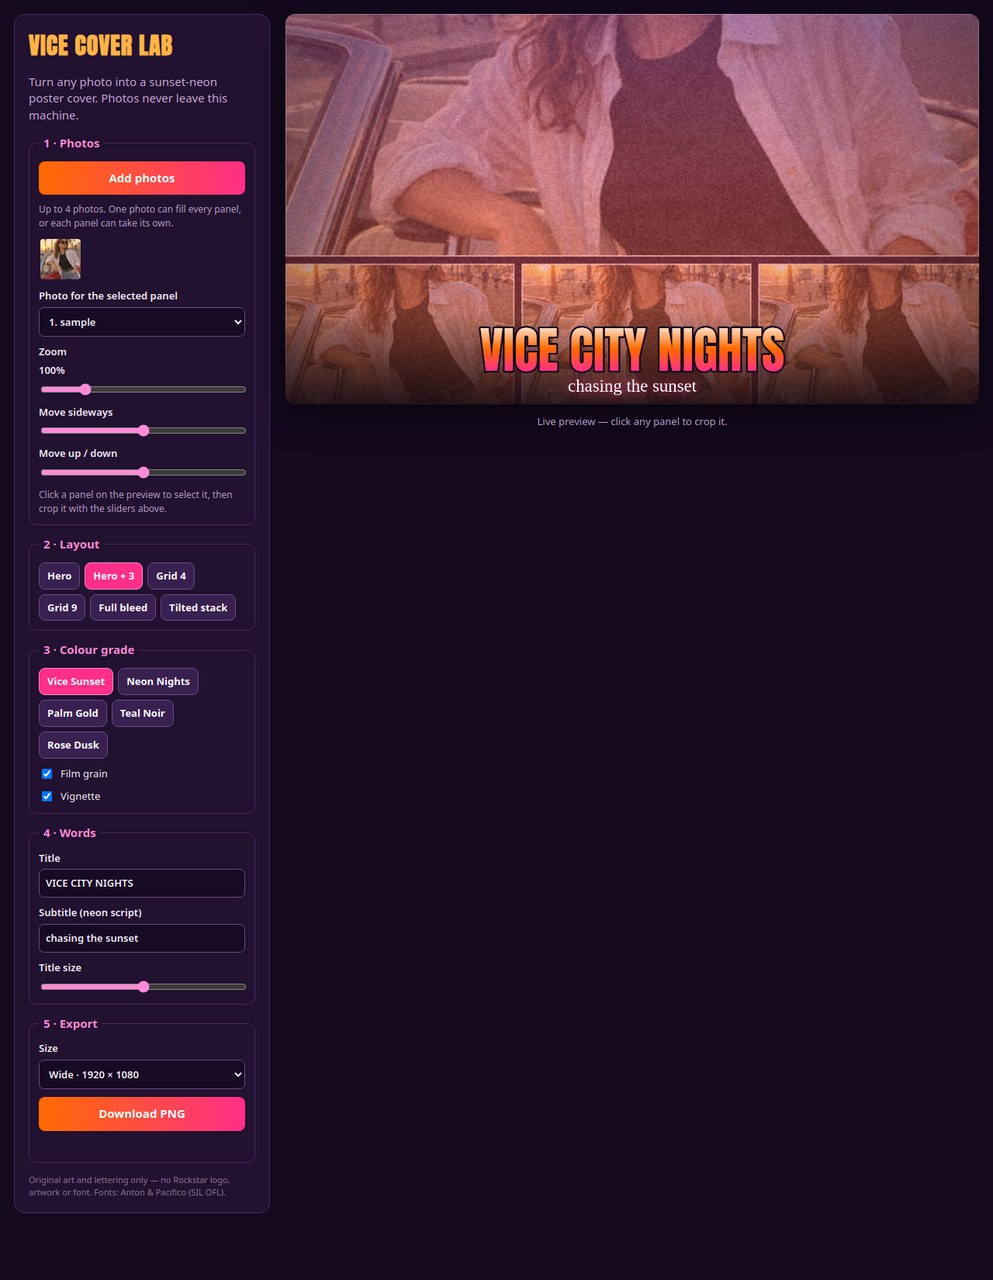
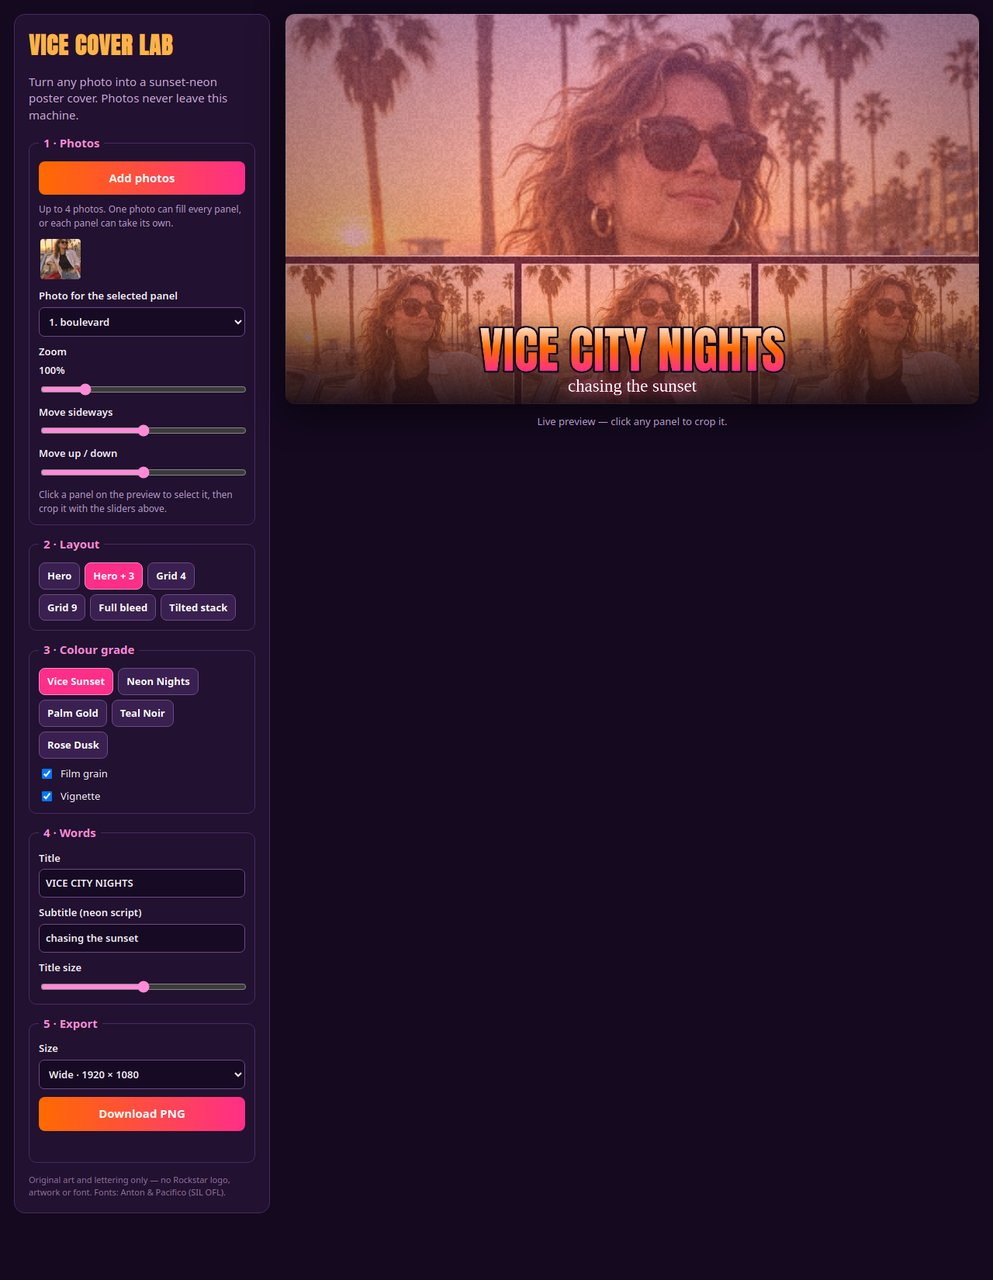
QA fixes: face-framing cover, two-photo cover, seeded grain, distinct Hero layout
- 1-cover.jpg retaken with per-panel pan (hero 250, bottom 100) so the
  subject's face is fully visible in the hero panel and below; pan
  sliders widened to +/-300 so that framing is reachable in the editor.
- runShot now takes photo2 + panels + per-panel pan/zoom; shot 3 retaken
  with pier + boulevard alternating across its 4 panels.
- Grain uses a fixed-seed PRNG (mulberry32): two renders of shot 1 are
  byte-identical PNGs.
- Hero layout is now 70% panel + bottom strip, geometrically distinct
  from Full bleed; the 6-layout claim is real.
- LICENSE: dropped the non-standard SPDX first line so GitHub detects
  the plain MIT text.

Changed region(s): [[0.281, 0.0, 0.999, 0.3125], [0.0312, 0.0, 0.1873, 0.0625], [0.0624, 0.25, 0.0937, 0.2812]]

diff --git a/app/src/shots.js b/app/src/shots.js
@@ -1,7 +1,13 @@
 // Fixed scenes for screenshots: ?shot=editor shows the page with a sample
 // photo loaded; ?shot=cover shows the exported cover alone, at the size the
 // `size` query names. `photo` picks the sample, `caption` the title words,
-// `layout` and `grade` the look. window.__shotReady is set once painted.
+// `layout` and `grade` the look. `photo2` loads a second sample so a cover
+// can fill its panels with several photos; `panels` maps each panel to a
+// photo index ("0,1,0,1"). `pan` and `zoom` are per-panel crop values,
+// comma-separated per panel ("250,100,100,100") or one value for all —
+// the hero panel of a wide cover needs a big downward pan to keep a face
+// in frame, while the small panels below it need only a little.
+// window.__shotReady is set once painted.
 export async function runShot(shot, query, load) {
   if (shot === 'cover') document.body.classList.add('shot-cover');
   const opts = {
@@ -10,6 +16,13 @@ export async function runShot(shot, query, load) {
     size: query.get('size') ?? undefined,
     subtitle: query.get('subtitle') ?? undefined,
   };
-  await load(`samples/${query.get('photo') ?? 'pier'}.jpg`, query.get('caption') ?? 'Sunset Heist', opts);
+  const photos = [query.get('photo') ?? 'pier'];
+  if (query.get('photo2')) photos.push(query.get('photo2'));
+  opts.photos = photos;
+  const numbers = (value) => (value == null ? undefined : value.split(',').map(Number));
+  opts.panelPhotos = numbers(query.get('panels'));
+  opts.pan = numbers(query.get('pan'));
+  opts.zoom = numbers(query.get('zoom'));
+  await load(`samples/${photos[0]}.jpg`, query.get('caption') ?? 'Sunset Heist', opts);
   requestAnimationFrame(() => requestAnimationFrame(() => { window.__shotReady = true; }));
 }

diff --git a/app/src/cover.js b/app/src/cover.js
@@ -55,11 +55,20 @@ export function panelRects(layout, w, h) {
       }
       return rows;
     }
+    case 'hero': {
+      // Hero: one big panel on top (70%) with a full-width strip below —
+      // a different geometry from 'full' (a single panel), so each of the
+      // six layouts really is its own arrangement.
+      const top = 0.7;
+      return [
+        [0, 0, 1, top],
+        [0, top + gap / h, 1, 1 - top - gap / h],
+      ];
+    }
     case 'full':
       return full;
     case 'tilt':
       return full;
-    case 'hero':
     default:
       return full;
   }
@@ -110,13 +119,27 @@ function gradeWash(ctx, grade, w, h) {
   ctx.fillRect(0, 0, w, h);
 }
 
+// A tiny seeded PRNG (mulberry32) so the grain is identical on every
+// redraw and export — the same cover always renders byte-identical grain.
+function seededRandom(seed) {
+  let a = seed >>> 0;
+  return () => {
+    a |= 0;
+    a = (a + 0x6d2b79f5) | 0;
+    let t = Math.imul(a ^ (a >>> 15), 1 | a);
+    t = (t + Math.imul(t ^ (t >>> 7), 61 | t)) ^ t;
+    return ((t ^ (t >>> 14)) >>> 0) / 4294967296;
+  };
+}
+
 function sprinkleGrain(ctx, w, h) {
+  const rand = seededRandom(0xc0ffee);
   const step = Math.max(3, Math.round(w / 360));
   ctx.save();
   ctx.globalAlpha = 0.07;
   for (let y = 0; y < h; y += step) {
     for (let x = 0; x < w; x += step) {
-      const v = Math.floor(Math.random() * 255);
+      const v = Math.floor(rand() * 255);
       ctx.fillStyle = `rgb(${v},${v},${v})`;
       ctx.fillRect(x, y, step, step);
     }

diff --git a/app/src/main.js b/app/src/main.js
@@ -173,9 +173,23 @@ refreshPhotoList();
 const shot = new URLSearchParams(location.search).get('shot');
 if (shot) {
   runShot(shot, new URLSearchParams(location.search), async (sample, text, opts) => {
-    const img = await loadImage(sample);
-    state.photos = [img];
-    state.photoNames = ['sample'];
+    // A shot may load several photos (opts.photos) and assign each panel
+    // its own photo (opts.panelPhotos) and crop (opts.pan / opts.zoom).
+    const names = opts.photos ?? [sample.replace('samples/', '').replace('.jpg', '')];
+    const imgs = [];
+    for (const name of names) imgs.push(await loadImage(`samples/${name}.jpg`));
+    state.photos = imgs;
+    state.photoNames = names;
+    if (opts.panelPhotos) {
+      state.panelPhotos = Array.from({ length: 9 }, (_, i) => opts.panelPhotos[i] ?? 0);
+    }
+    if (opts.pan || opts.zoom) {
+      state.crops = Array.from({ length: 9 }, (_, i) => ({
+        zoom: opts.zoom ? (opts.zoom[i] ?? opts.zoom[0] ?? 100) : 100,
+        panX: 0,
+        panY: opts.pan ? (opts.pan[i] ?? opts.pan[0] ?? 0) : 0,
+      }));
+    }
     if (opts.layout) state.layout = opts.layout;
     if (opts.grade) state.grade = opts.grade;
     if (opts.size) {

diff --git a/app/index.html b/app/index.html
@@ -26,10 +26,10 @@
         <input id="zoom" type="range" min="50" max="300" value="100">
       </label>
       <label>Move sideways
-        <input id="panx" type="range" min="-100" max="100" value="0">
+        <input id="panx" type="range" min="-300" max="300" value="0">
       </label>
       <label>Move up / down
-        <input id="pany" type="range" min="-100" max="100" value="0">
+        <input id="pany" type="range" min="-300" max="300" value="0">
       </label>
       <p class="hint">Click a panel on the preview to select it, then crop it with the sliders above.</p>
     </fieldset>

diff --git a/README.md b/README.md
@@ -17,6 +17,7 @@ Then open http://localhost:8080 in desktop Chrome. No build step, no network req
 ## How it works
 
 - `app/index.html` — the editor: photo picker, per-panel crop sliders, layout and grade pickers, title/subtitle fields, export size.
-- `app/src/cover.js` — the cover engine: panel geometry for 6 layouts, gradient-map grades, grain, vignette, and gradient-filled Anton lettering with a glowing Pacifico subtitle, all drawn on canvas.
+- `app/src/cover.js` — the cover engine: panel geometry for 6 layouts, gradient-map grades, grain, vignette, and gradient-filled Anton lettering with a glowing Pacifico subtitle, all drawn on canvas. Pan sliders run ±300 so a wide panel can be shifted far enough to keep a face in frame; grain uses a fixed-seed PRNG so exports are reproducible.
+- `app/src/shots.js` — fixed scenes for screenshots: one photo or several (`photo2` + `panels` per-panel photo map), with per-panel crop (`pan` / `zoom`) so a shot can frame each panel.
 - `app/src/main.js` — wires the page, reads photos with FileReader, and exports the cover at the chosen post size.
 - `main.ts` — the entry program: copies `app/` and `screenshots/` to `/output` and writes `dossier.json`.
